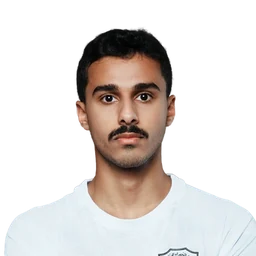
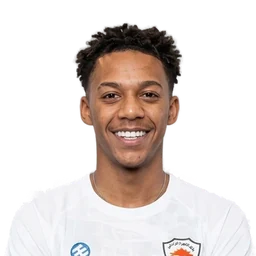
تراجع: تركي المطيري (الجهراء 22، السعودي) صورته ومركزه كما كانت — صورة ?v=25، PLAYER_PHOTOS_VER 27، fantasy 243، sw -160

diff --git a/fantasy/index.html b/fantasy/index.html
@@ -12,8 +12,8 @@
 <link rel="preconnect" href="https://fonts.googleapis.com">
 <link rel="preconnect" href="https://fonts.gstatic.com" crossorigin>
 <link href="https://fonts.googleapis.com/css2?family=Vazirmatn:wght@300;400;500;600;700;800&display=swap" rel="stylesheet">
-<link rel="stylesheet" href="css/style.css?v=242">
-<link rel="stylesheet" href="css/motion.css?v=242">
+<link rel="stylesheet" href="css/style.css?v=243">
+<link rel="stylesheet" href="css/motion.css?v=243">
 <script src="https://cdnjs.cloudflare.com/ajax/libs/firebase/10.12.2/firebase-app-compat.min.js"></script>
 <script src="https://cdnjs.cloudflare.com/ajax/libs/firebase/10.12.2/firebase-auth-compat.min.js"></script>
 <script src="https://cdnjs.cloudflare.com/ajax/libs/firebase/10.12.2/firebase-firestore-compat.min.js"></script>
@@ -21,13 +21,13 @@
 </head>
 <body>
   <div id="splash">
-    <div class="splash-card"><img class="splash-logo" src="assets/logo-light.png?v=242" alt="Kuwait Fantasy League"></div>
+    <div class="splash-card"><img class="splash-logo" src="assets/logo-light.png?v=243" alt="Kuwait Fantasy League"></div>
   </div>
 
   <header id="topbar" style="display:none">
     <div id="brand" onclick="APP.go('dashboard')">
-      <img class="brand-lockup lk-dark" src="assets/logo-dark.png?v=242" alt="Kuwait Fantasy League">
-      <img class="brand-lockup lk-light" src="assets/logo-light.png?v=242" alt="Kuwait Fantasy League">
+      <img class="brand-lockup lk-dark" src="assets/logo-dark.png?v=243" alt="Kuwait Fantasy League">
+      <img class="brand-lockup lk-light" src="assets/logo-light.png?v=243" alt="Kuwait Fantasy League">
     </div>
     <a id="toSite" href="/" title="العودة للموقع">
       <svg viewBox="0 0 24 24" width="16" height="16" fill="none" stroke="currentColor" stroke-width="2.2" stroke-linecap="round" stroke-linejoin="round" aria-hidden="true"><path d="M9 6l6 6-6 6"/></svg>
@@ -42,29 +42,29 @@
   <nav id="bottomnav"></nav>
   <div id="toasts"></div>
 
-  <script src="js/cloud.js?v=242"></script>
-  <script src="js/data.js?v=242"></script>
-  <script src="js/engine.js?v=242"></script>
-  <script src="js/ui.js?v=242"></script>
-  <script src="js/photos.js?v=242"></script>
-  <script src="js/kits.js?v=242"></script>
-  <script src="js/kits-number.js?v=242"></script>
-  <script src="js/moderation.js?v=242"></script>
-  <script src="js/views.js?v=242"></script>
-  <script src="js/picker.js?v=242"></script>
-  <script src="js/extras.js?v=242"></script>
-  <script src="js/push.js?v=242"></script>
-  <script src="js/adminauth.js?v=242"></script>
-  <script src="js/admin.js?v=242"></script>
-  <script src="js/guide.js?v=242"></script>
-  <script src="js/live-gw.js?v=242"></script>
-  <script src="js/points.js?v=242"></script>
-  <script src="js/mfsync.js?v=242"></script>
-  <script src="js/roster-sync.js?v=242"></script>
-  <script src="js/app.js?v=242"></script>
-  <script src="js/motion.js?v=242"></script>
-  <script src="js/i18n.js?v=242"></script>
-  <script src="js/i18n-more.js?v=242"></script>
-  <script src="js/gate.js?v=242"></script>
+  <script src="js/cloud.js?v=243"></script>
+  <script src="js/data.js?v=243"></script>
+  <script src="js/engine.js?v=243"></script>
+  <script src="js/ui.js?v=243"></script>
+  <script src="js/photos.js?v=243"></script>
+  <script src="js/kits.js?v=243"></script>
+  <script src="js/kits-number.js?v=243"></script>
+  <script src="js/moderation.js?v=243"></script>
+  <script src="js/views.js?v=243"></script>
+  <script src="js/picker.js?v=243"></script>
+  <script src="js/extras.js?v=243"></script>
+  <script src="js/push.js?v=243"></script>
+  <script src="js/adminauth.js?v=243"></script>
+  <script src="js/admin.js?v=243"></script>
+  <script src="js/guide.js?v=243"></script>
+  <script src="js/live-gw.js?v=243"></script>
+  <script src="js/points.js?v=243"></script>
+  <script src="js/mfsync.js?v=243"></script>
+  <script src="js/roster-sync.js?v=243"></script>
+  <script src="js/app.js?v=243"></script>
+  <script src="js/motion.js?v=243"></script>
+  <script src="js/i18n.js?v=243"></script>
+  <script src="js/i18n-more.js?v=243"></script>
+  <script src="js/gate.js?v=243"></script>
 </body>
 </html>

diff --git a/fantasy/js/mfsync.js b/fantasy/js/mfsync.js
@@ -18,7 +18,6 @@ const MF_SQUAD_ADD = {
 const MF_SQUAD_NUM = [
   {c:'العربي', n:'احمد عادي', s:26},
   {c:'العربي', n:'عايد ماجد', s:36},
-  {c:'الجهراء', n:'تركي المطيري', s:22, p:'CM'},
 ];
 const MF_SQUAD_MOVE = [
   {n:'بدر طارق', from:'العربي', to:'كاظمة', s:77},

diff --git a/sw.js b/sw.js
@@ -9,7 +9,7 @@
 
    عند كل نشر: ارفع رقم VER فتُبنى ذاكرة جديدة وتُحذف القديمة.
    ========================================================= */
-const VER   = 'mf-2026-09-17-159';
+const VER   = 'mf-2026-09-17-160';
 const SHELL = 'shell-' + VER;
 const RUN   = 'run-'   + VER;
 

diff --git a/fantasy/js/photos.js b/fantasy/js/photos.js
@@ -4,7 +4,7 @@
 'use strict';
 
 /* رقم نسخة الصور: ارفعه عند إعادة توليد أي قصّة حتى لا يبقى المتصفح على النسخة القديمة */
-const PLAYER_PHOTOS_VER = '26';
+const PLAYER_PHOTOS_VER = '27';
 
 const PLAYER_PHOTOS = {
   // الصليبخات (17)
